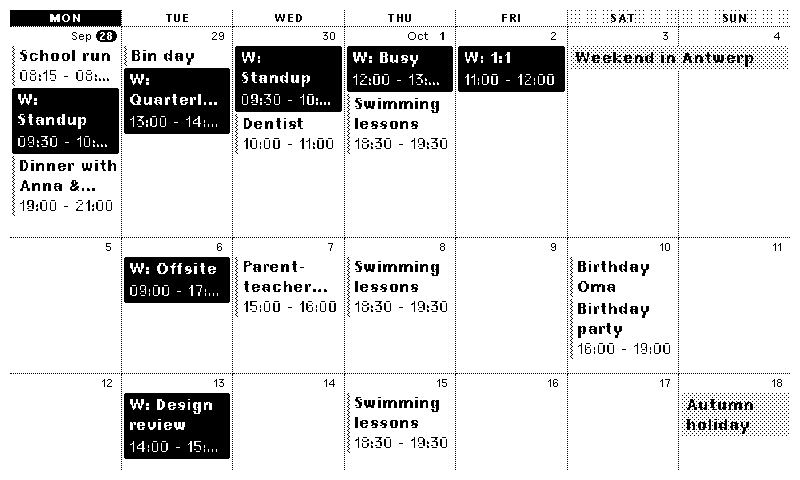
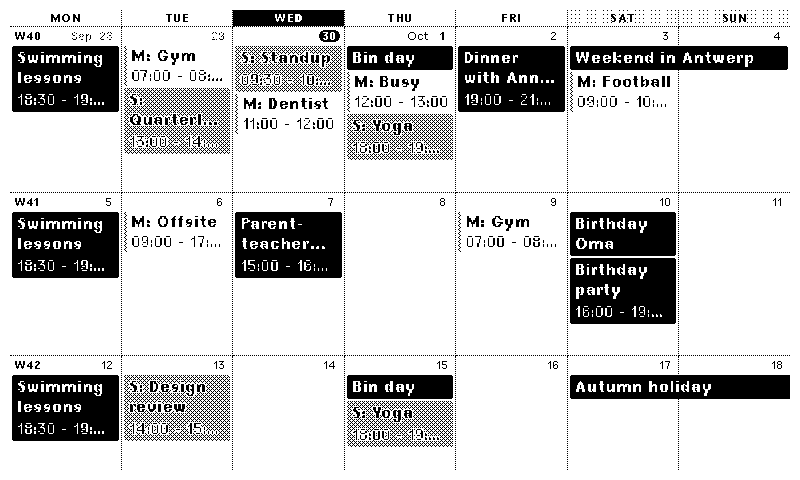
Show off more of the fork in the README screenshots
The sample data is now a family of two adults, each with their own calendar
(Mark: M: prefix, no fill; Sara: S: prefix, gray-50 fill), plus a shared
black calendar without a prefix. The screenshots are pinned to a Wednesday
so the past days are shaded, and show week numbers.

Claude-Session: https://claude.ai/code/session_01H3y3RWiueAzsMrxk5RfhF7

diff --git a/README.md b/README.md
@@ -200,14 +200,15 @@ a calendar that should have none. For example, with these settings:
 
 | Setting | Entries |
 |---|---|
-| Calendar entities | `calendar.family`, `calendar.work` |
-| Calendar prefixes | `-`, `W:` |
-| Calendar colors | `gray-65`, `black` |
+| Calendar entities | `calendar.family`, `calendar.mark`, `calendar.sara` |
+| Calendar prefixes | `-`, `M:`, `S:` |
+| Calendar colors | `black`, `-`, `gray-50` |
 
-family events get no prefix and a `gray-65` fill, and work events get `W:` and a
-`black` fill.
+shared family events get no prefix and a `black` fill, Mark's events get `M:` and no
+fill, and Sara's get `S:` and a `gray-50` fill. That is what the screenshots above
+show, with week numbers on.
 
-- **Prefix**: shown before the title, followed by a space (`W: Standup`).
+- **Prefix**: shown before the title, followed by a space (`S: Standup`).
 - **Color**: fills every event of that calendar, timed ones included, instead of a dot.
   Text turns black or white depending on how light the color is.
   - Color names use the framework's classes: solid greys on the TRMNL X (hues fall back
